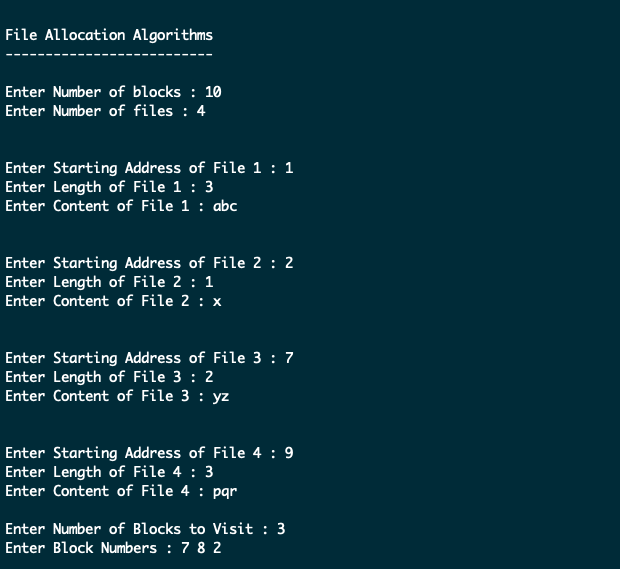
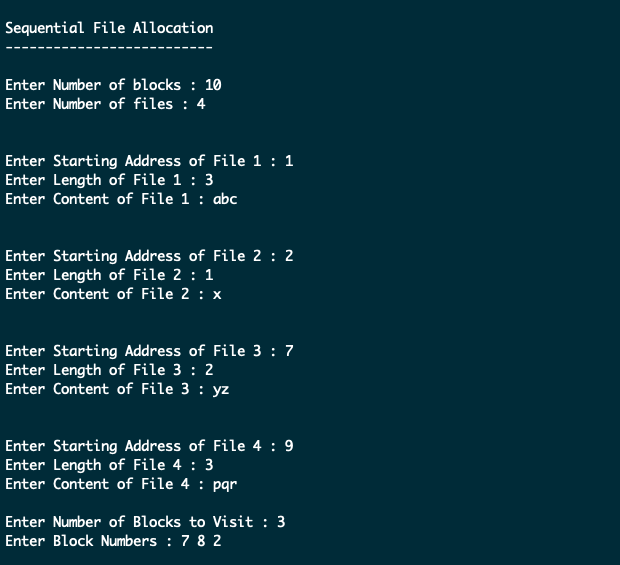
Modify Sequential File Allocation Header and Readme

diff --git a/2_FILE ALLOCATION METHODS/sequential.c b/2_FILE ALLOCATION METHODS/sequential.c
@@ -17,7 +17,7 @@ int main(){
 	char block[100], tempStatus[15];
 
   clearScreen();
-  printf("\nFile Allocation Algorithms\n--------------------------\n\n");
+  printf("\nSequential File Allocation\n--------------------------\n\n");
 
 	printf("Enter Number of blocks : ");
 	scanf("%d", &nb);
